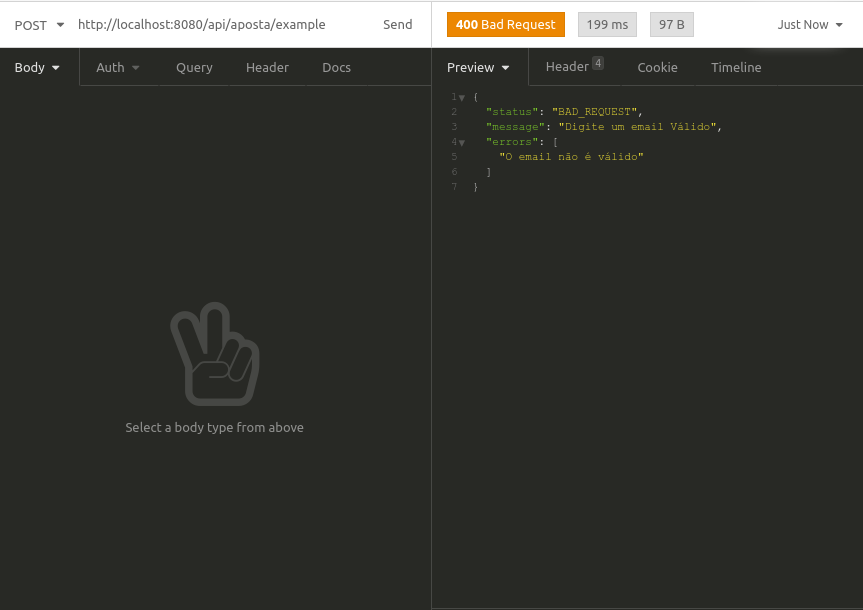
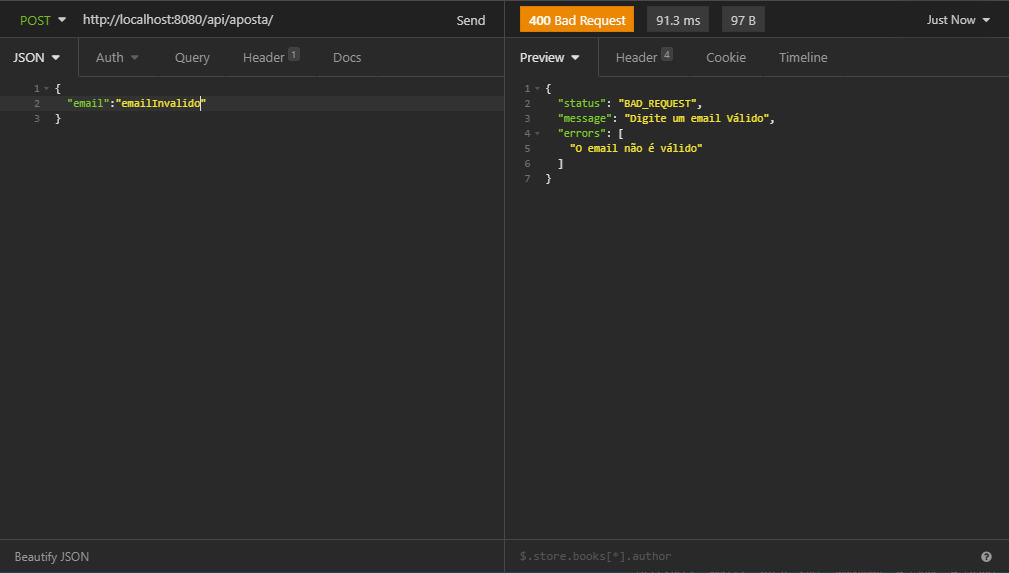
Atualiza o README e retorno do delete

diff --git a/src/main/java/com/orangetalents/orangetalents/Controller/BetController.java b/src/main/java/com/orangetalents/orangetalents/Controller/BetController.java
@@ -4,9 +4,6 @@ package com.orangetalents.orangetalents.Controller;
 import java.util.List;
 import java.util.Optional;
 
-import javax.persistence.EntityManager;
-import javax.persistence.PersistenceContext;
-import javax.validation.Valid;
 
 import org.springframework.beans.factory.annotation.Autowired;
 import org.springframework.http.HttpStatus;
@@ -20,7 +17,6 @@ import org.springframework.web.bind.annotation.RequestMapping;
 import org.springframework.web.bind.annotation.ResponseStatus;
 import org.springframework.web.bind.annotation.RestController;
 
-import com.orangetalents.orangetalents.Models.Bet;
 import com.orangetalents.orangetalents.Services.BetService;
 
 import DTO.BetDTO;
@@ -54,8 +50,8 @@ public class BetController {
 		return service.createBet(email.getEmail());
 	}
 	@DeleteMapping("/{id}")
-	public void deleteBet(@PathVariable Long id) {
-		System.out.println(id);
+	public ResponseEntity<?> deleteBet(@PathVariable Long id) {
 		service.deleteBet(id);
+		return ResponseEntity.noContent().build();
 	}
 }

diff --git a/README.md b/README.md
@@ -7,7 +7,7 @@ Nesse projeto Spring Boot foi desenvolvida uma API REST de sorteios, que recebe 
 
 <h2 style="color:orange;"> POST: </h2>
 
-- Quando a API recebe uma requisição POST com o caminho `"/api/aposta/{email}"` passando como parâmetro um email ela retorna ao usuário o email que foi enviado como parâmetro, o id da aposta e os 6 números aleatórios gerados pela aplicação.
+- Quando a API recebe uma requisição POST com o caminho `"/api/aposta/"` passando como corpo da requisição um email ela retorna ao usuário o email que foi enviado como parâmetro e os 6 números aleatórios gerados pela aplicação.
 - A aplicação faz uma busca no banco de dados e verifica se a aposta gerada é diferente das demais apostas geradas para aquele email antes e fazer a persistência dos dados, se alguma aposta for igual uma nova aposta é gerada e então salva no banco.
 
   ![](./README/POST.png)
@@ -25,9 +25,9 @@ A API aceita tres tipos de requisição get:
 - Quando nenhum parâmetro é passado a API retorna uma lista com todos as apostas de todos os emails.
   ![](./README/GETALL.png)
 
-<h4 style="color:orange;"> "/api/aposta/{email}" </h4>
+<h4 style="color:orange;"> "/api/aposta/email" </h4>
 
-- Quando o email é passado como parâmetro, o retorno é uma lista de todas as apostas referentes ao email do parâmetro.
+- Quando o email é passado como parâmetro no corpo da requisição, o retorno é uma lista de todas as apostas referentes ao email do parâmetro.
   ![](./README/GET.png)
 
 <h4 style="color:orange;"> "/api/aposta/id/${id}" </h4>
